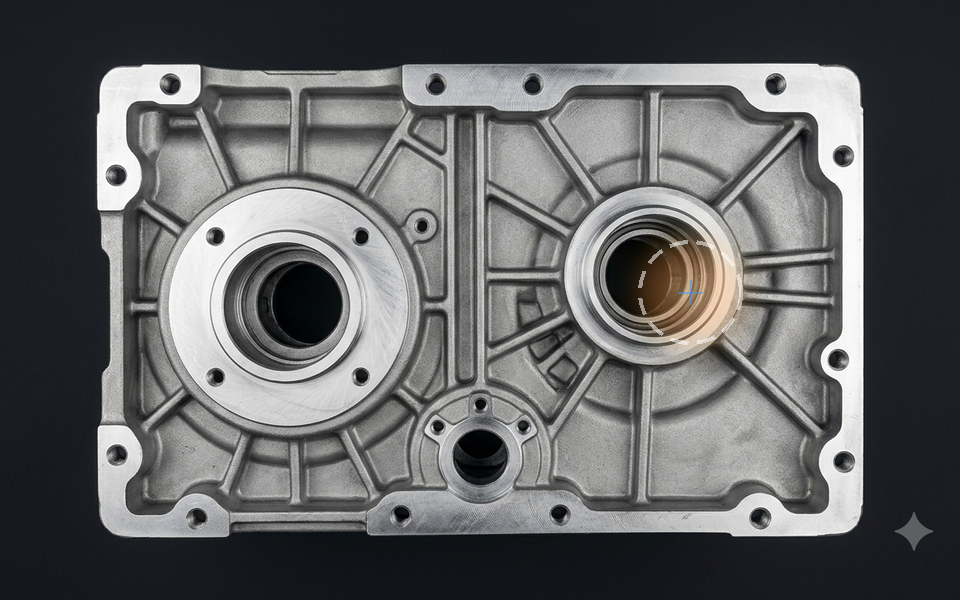
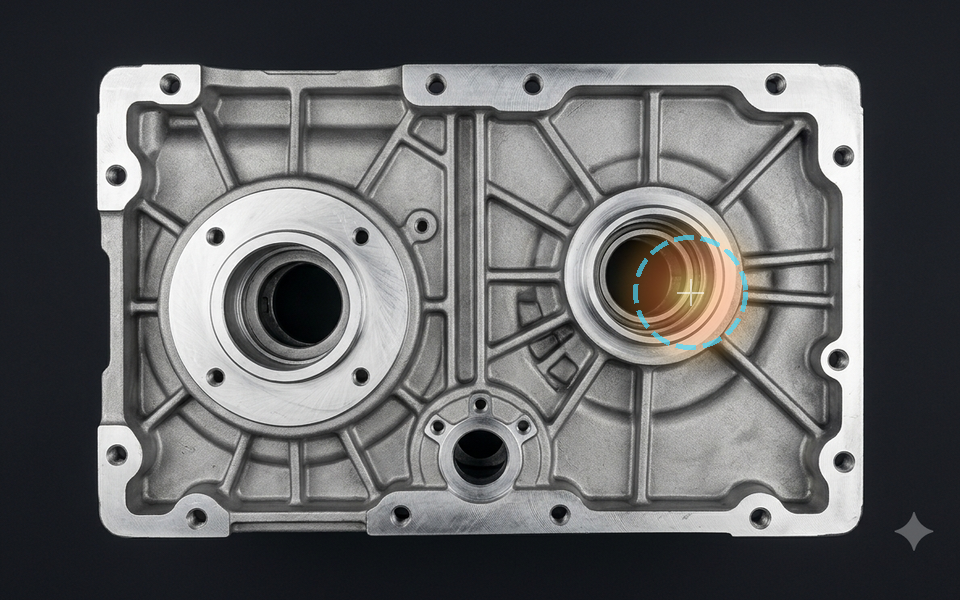
Refine asset generation pipeline

Changed region(s): [[0.625, 0.36, 0.8125, 0.6]]

diff --git a/tools/generate_kalibra_part_assets.py b/tools/generate_kalibra_part_assets.py
@@ -23,6 +23,8 @@ PART_LOCALIZATION_NAME = "part_localization.png"
 PART_CLEAN_SIZE = (960, 600)
 PART_MAIN_SIZE = (960, 600)
 PART_LOCALIZATION_SIZE = (520, 460)
+LOCALIZATION_CROP_WIDTH = 678
+LOCALIZATION_CROP_HEIGHT = 600
 
 OUTPUT_SPECS = {
     PART_CLEAN_NAME: PART_CLEAN_SIZE,
@@ -35,19 +37,21 @@ TARGET_OBJECT_OCCUPANCY = 0.80
 
 ANOMALY_X = 690
 ANOMALY_Y = 292
-ANOMALY_RADIUS = 48
+ANOMALY_RADIUS = 52
 ANOMALY_INTENSITY = 1.0
 ANOMALY_COLORS = {
-    "outer": (255, 196, 57),
-    "middle": (245, 94, 54),
-    "core": (255, 247, 148),
-    "contour": (255, 255, 255),
-    "accent": (60, 150, 255),
+    "outer": (255, 184, 64),
+    "middle": (255, 111, 54),
+    "core": (255, 232, 112),
+    "contour": (72, 218, 255),
+    "accent": (255, 255, 255),
 }
-ANOMALY_OPACITY = 0.56
-OVERLAY_FEATHER_RADIUS = 16
-OVERLAY_CONTOUR_WIDTH = 4
-OVERLAY_CONTOUR_DASH_PATTERN = (18, 10)
+ANOMALY_OPACITY = 0.72
+OVERLAY_CENTER_ALPHA = 0.78
+OVERLAY_EDGE_ALPHA = 0.34
+OVERLAY_FEATHER_RADIUS = 12
+OVERLAY_CONTOUR_WIDTH = 5
+OVERLAY_CONTOUR_DASH_PATTERN = (20, 8)
 
 
 class AssetPipelineError(RuntimeError):
@@ -264,6 +268,7 @@ def draw_dashed_ellipse(
 def apply_anomaly_overlay(
     image: Image.Image,
     center: tuple[int, int] = (ANOMALY_X, ANOMALY_Y),
+    radius: int = ANOMALY_RADIUS,
 ) -> Image.Image:
     base = image.convert("RGBA")
     center_x, center_y = center
@@ -271,17 +276,17 @@ def apply_anomaly_overlay(
     heat = Image.new("RGBA", base.size, (0, 0, 0, 0))
     heat_draw = ImageDraw.Draw(heat, "RGBA")
     for radius_multiplier, color_name, alpha_multiplier in (
-        (1.35, "outer", 0.42),
-        (0.92, "middle", 0.68),
-        (0.48, "core", 0.82),
+        (1.48, "outer", OVERLAY_EDGE_ALPHA),
+        (1.00, "middle", (OVERLAY_CENTER_ALPHA + OVERLAY_EDGE_ALPHA) / 2),
+        (0.48, "core", OVERLAY_CENTER_ALPHA),
     ):
-        radius = int(round(ANOMALY_RADIUS * radius_multiplier))
+        overlay_radius = int(round(radius * radius_multiplier))
         heat_draw.ellipse(
             (
-                center_x - radius,
-                center_y - radius,
-                center_x + radius,
-                center_y + radius,
+                center_x - overlay_radius,
+                center_y - overlay_radius,
+                center_x + overlay_radius,
+                center_y + overlay_radius,
             ),
             fill=rgba(color_name, scaled_alpha(alpha_multiplier)),
         )
@@ -290,7 +295,7 @@ def apply_anomaly_overlay(
 
     contour = Image.new("RGBA", base.size, (0, 0, 0, 0))
     contour_draw = ImageDraw.Draw(contour, "RGBA")
-    contour_radius = ANOMALY_RADIUS + OVERLAY_CONTOUR_WIDTH
+    contour_radius = radius + OVERLAY_CONTOUR_WIDTH
     contour_bbox = (
         center_x - contour_radius,
         center_y - contour_radius,
@@ -305,8 +310,8 @@ def apply_anomaly_overlay(
         OVERLAY_CONTOUR_DASH_PATTERN,
     )
 
-    marker_size = max(8, ANOMALY_RADIUS // 4)
-    marker_color = rgba("accent", scaled_alpha(0.9))
+    marker_size = max(8, radius // 4)
+    marker_color = rgba("accent", scaled_alpha(0.82))
     contour_draw.line(
         (center_x - marker_size, center_y, center_x + marker_size, center_y),
         fill=marker_color,
@@ -382,15 +387,25 @@ def generate_assets() -> None:
     localization_box = clamp_crop_box(
         ANOMALY_X,
         ANOMALY_Y,
-        PART_LOCALIZATION_SIZE,
+        (LOCALIZATION_CROP_WIDTH, LOCALIZATION_CROP_HEIGHT),
         clean_base.size,
     )
-    localization_clean = clean_base.crop(localization_box)
-    localization_center = (
-        ANOMALY_X - localization_box[0],
-        ANOMALY_Y - localization_box[1],
+    localization_clean = clean_base.crop(localization_box).resize(
+        PART_LOCALIZATION_SIZE,
+        Image.Resampling.LANCZOS,
     )
-    localization = apply_anomaly_overlay(localization_clean, localization_center)
+    scale_x = PART_LOCALIZATION_SIZE[0] / LOCALIZATION_CROP_WIDTH
+    scale_y = PART_LOCALIZATION_SIZE[1] / LOCALIZATION_CROP_HEIGHT
+    localization_center = (
+        int(round((ANOMALY_X - localization_box[0]) * scale_x)),
+        int(round((ANOMALY_Y - localization_box[1]) * scale_y)),
+    )
+    localization_radius = int(round(ANOMALY_RADIUS * (scale_x + scale_y) / 2))
+    localization = apply_anomaly_overlay(
+        localization_clean,
+        localization_center,
+        localization_radius,
+    )
     save_png(localization, GENERATED_DIR / PART_LOCALIZATION_NAME)
 
     validate_outputs(expected_source_hash=source_hash)

diff --git a/tests/test_asset_pipeline.py b/tests/test_asset_pipeline.py
@@ -61,7 +61,7 @@ def test_pipeline_writes_only_generated_part_assets() -> None:
     pipeline.generate_assets()
 
     assert parts_files_outside_generated() == before
-    assert before == [Path("source/master_clean.png")]
+    assert Path("source/master_clean.png") in before
     assert {path.name for path in pipeline.GENERATED_DIR.iterdir()} == {
         pipeline.PART_CLEAN_NAME,
         pipeline.PART_MAIN_NAME,